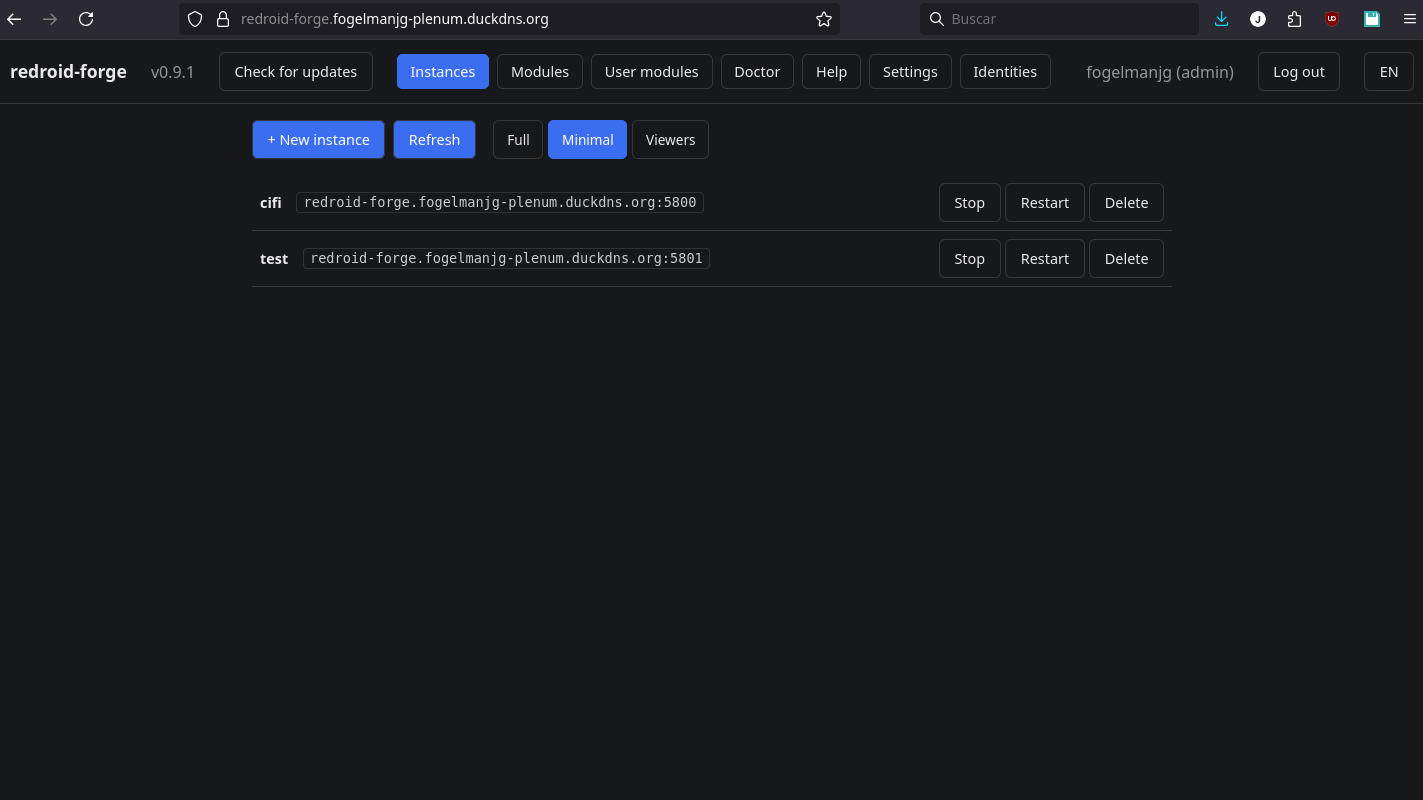
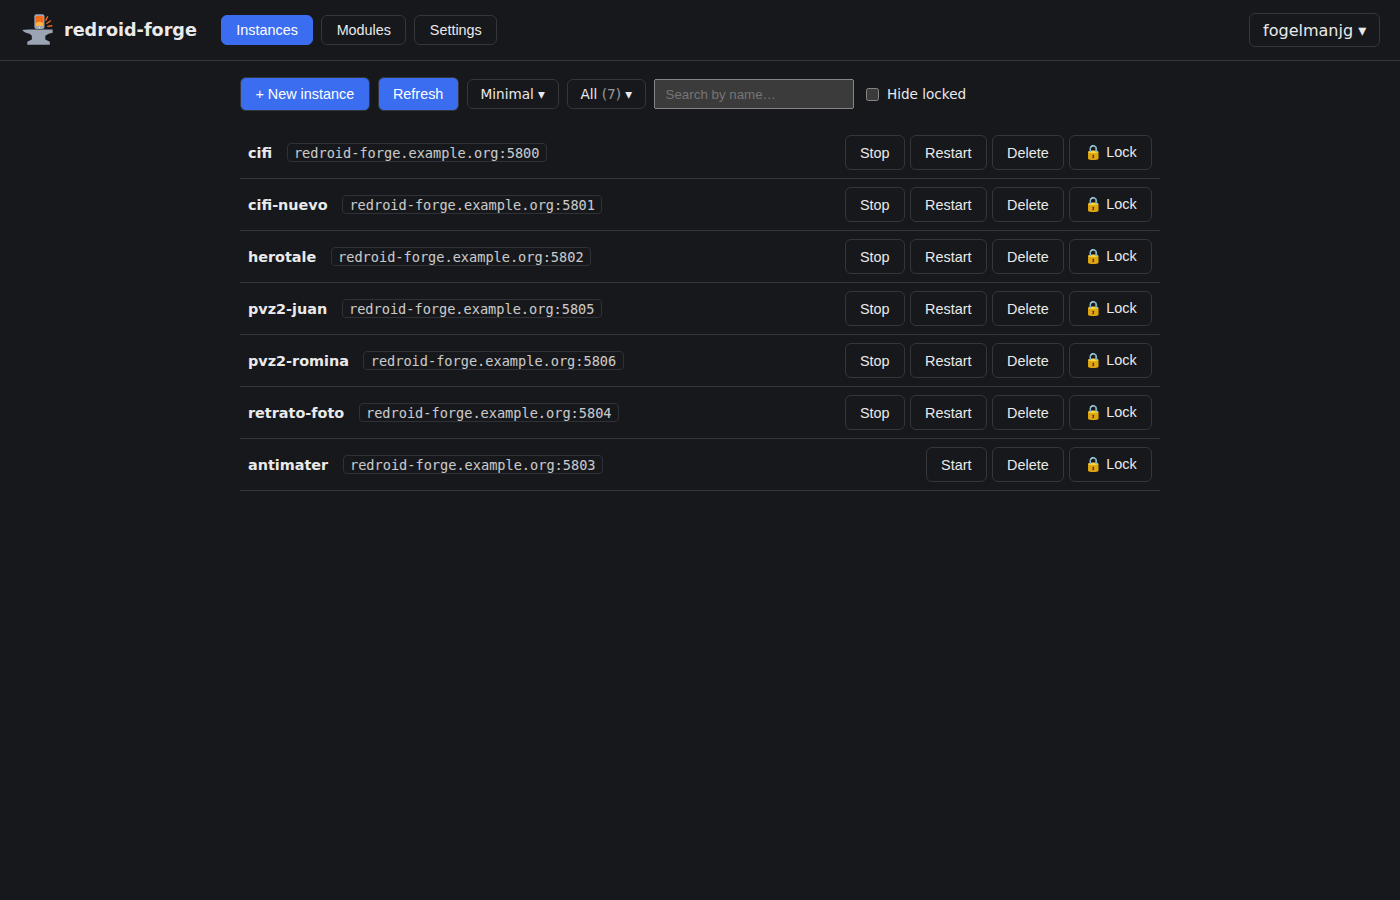
docs: retake the screenshot gallery on 1.0.0-rc.6
All 18 captures are now from rc.6, replacing the ones from 0.9.1. They
are in dark mode, with the domain, IP addresses, Android IDs and e-mails
masked.

New: Resources (live CPU and RAM), Local scrcpy, and a "What each role
sees" section with the operator's and viewer's instances, the viewer's
Doctor and My account.

diff --git a/docs/SCREENSHOTS.es.md b/docs/SCREENSHOTS.es.md
@@ -2,9 +2,9 @@
 
 **Idiomas:** [English](SCREENSHOTS.md) | Español
 
-Algunos datos de la interfaz están borroneados en estas imágenes (parte de una dirección IP o de un
-ID de cuenta, dejando visible lo justo para saber qué es) — son datos de esta máquina, no algo que
-haga la app.
+Tomadas en 1.0.0-rc.6 (28/11/2026). Algunos datos de esta máquina están enmascarados en las
+imágenes: el dominio dice `example.org`, las direcciones IP y los Android ID muestran solo su última
+parte (`x.x.x.50`, `••••9064`) y los correos solo su primera letra. La app en sí no hace esto.
 
 El encabezado tiene tres grupos — **Instancias**, **Módulos** y **Configuración** — con las pestañas
 del grupo abierto en una fila debajo, y un menú a la derecha con el usuario, la versión y el chequeo
@@ -57,10 +57,19 @@ interfaces escucha la app en sí (eso está en Configuración → General, más 
 
 <img src="screenshots/configure-instance.png" width="800" alt="Configurar instancia — exposición de red">
 
+## Recursos (CPU y RAM, en vivo)
+
+Qué núcleos del host puede usar una instancia y su límite de RAM (⚙ → Recursos), aplicado a la
+instancia en marcha sin reiniciarla. El panel avisa cuando un núcleo se comparte con otras
+instancias. La RAM se puede subir en vivo; bajarla reinicia la instancia.
+
+<img src="screenshots/resources.png" width="800" alt="Recursos — núcleos de CPU y límite de RAM">
+
 ## Port-knocking (acceso abierto)
 
 Una ventana de acceso con tiempo y IP limitados al puerto ADB de una instancia — se abre desde una
-sesión ya logueada, nunca desde el dispositivo que se conecta.
+sesión ya logueada, nunca desde el dispositivo que se conecta. Aparece solo en una instancia que
+exige knock (⚙ → Configurar → Port-knocking).
 
 <img src="screenshots/open-access.png" width="800" alt="Acceso abierto — panel de port-knocking">
 
@@ -95,13 +104,19 @@ y cuotas opcionales. Solo admin.
 Se prueba el lanzador local una vez en este navegador y después se activa o desactiva el botón 📲
 (ver [`HOWTO.es.md`](HOWTO.es.md#abrir-una-instancia-en-scrcpy-en-tu-computadora)).
 
+<img src="screenshots/local-scrcpy.png" width="800" alt="scrcpy local">
+
 ### Doctor
 
 Diagnóstico del host, el peor estado primero (rojo, después amarillo, después verde) — cada chequeo
 trae el comando exacto para arreglarlo, nunca ejecuta nada solo. Un usuario que no es admin ve solo
 los chequeos de sus propias instancias.
 
-<img src="screenshots/doctor.png" width="800" alt="Doctor">
+<img src="screenshots/doctor.png" width="800" alt="Doctor, admin">
+
+La misma pestaña para un viewer, limitada a sus propias instancias:
+
+<img src="screenshots/viewer-doctor.png" width="800" alt="Doctor, viewer">
 
 ### Identidades / Mi cuenta
 
@@ -111,3 +126,20 @@ separado. Cualquier otro usuario ve **Mi cuenta** en su lugar, para vincular o d
 login SSO.
 
 <img src="screenshots/identities.png" width="800" alt="Identidades">
+<img src="screenshots/viewer-my-account.png" width="800" alt="Mi cuenta">
+
+## Qué ve cada rol
+
+Hay tres roles. Un **admin** ve y maneja todas las instancias y toda la configuración (las imágenes
+de arriba). Los otros dos roles ven solo las instancias de las que son dueños: una instancia puede
+tener varios dueños (⚙ → Dueños).
+
+**Operador:** puede crear instancias dentro de su cuota y, en sus propias instancias, hacer todo,
+incluso configurarlas y borrarlas.
+
+<img src="screenshots/operator-instances.png" width="800" alt="Instancias vistas por un operador">
+
+**Viewer:** solo puede ver, arrancar, detener y reiniciar sus propias instancias. No tiene "Nueva
+instancia", y el grupo Configuración muestra solo scrcpy local, Doctor y Mi cuenta.
+
+<img src="screenshots/viewer-instances.png" width="800" alt="Instancias vistas por un viewer">

diff --git a/docs/SCREENSHOTS.md b/docs/SCREENSHOTS.md
@@ -2,9 +2,10 @@
 
 **Languages:** English | [Español](SCREENSHOTS.es.md)
 
-A few UI details are blurred/redacted in these images (part of an IP address or an account ID,
-keeping just enough of it visible to tell what it is) — that's this machine's own data, not
-something the app does.
+Taken on 1.0.0-rc.6 (28/11/2026). Some of this machine's own data is masked in these images:
+the domain reads `example.org`, IP addresses and Android IDs keep only their last part
+(`x.x.x.50`, `••••9064`), and e-mail addresses keep only their first letter. The app itself does
+not do this.
 
 The header has three groups — **Instances**, **Modules** and **Settings** — with the open group's
 tabs in a row below, and a menu on the right with the user, the version and update check, Help, the
@@ -54,10 +55,19 @@ interfaces the app itself listens on (that's in Settings → General, below).
 
 <img src="screenshots/configure-instance.png" width="800" alt="Configure instance — network exposure">
 
+## Resources (CPU and RAM, live)
+
+Which host cores an instance may use and its RAM limit (⚙ → Resources), applied to the running
+instance without a restart. The panel warns when a core is shared with other instances. RAM can be
+raised live; lowering it restarts the instance.
+
+<img src="screenshots/resources.png" width="800" alt="Resources — CPU cores and RAM limit">
+
 ## Port-knocking (open access)
 
 A time-limited, IP-scoped access window for an instance's ADB port — opened from an already
-logged-in session, never by the connecting device itself.
+logged-in session, never by the connecting device itself. It shows only on an instance that requires
+a knock (⚙ → Configure → Port-knocking).
 
 <img src="screenshots/open-access.png" width="800" alt="Open access — port-knocking panel">
 
@@ -90,13 +100,19 @@ shared hardware encoder backend, the ADB port range, and optional quotas. Admin 
 Test the local launcher once in this browser, then turn the 📲 button on or off (see
 [`HOWTO.md`](HOWTO.md#open-an-instance-in-scrcpy-on-your-computer)).
 
+<img src="screenshots/local-scrcpy.png" width="800" alt="Local scrcpy">
+
 ### Doctor
 
 Host diagnostics, worst status first (red, then yellow, then green) — each check comes with the
 exact command to fix it, never runs anything on its own. A non-admin user sees only the checks about
 their own instances.
 
-<img src="screenshots/doctor.png" width="800" alt="Doctor">
+<img src="screenshots/doctor.png" width="800" alt="Doctor, admin">
+
+The same tab for a viewer, limited to their own instances:
+
+<img src="screenshots/viewer-doctor.png" width="800" alt="Doctor, viewer">
 
 ### Identities / My account
 
@@ -105,3 +121,20 @@ be linked to a provider identity, and each linked identity can be managed indepe
 user sees **My account** instead, to link or unlink their own SSO login.
 
 <img src="screenshots/identities.png" width="800" alt="Identities">
+<img src="screenshots/viewer-my-account.png" width="800" alt="My account">
+
+## What each role sees
+
+There are three roles. An **admin** sees and manages every instance and every setting (the images
+above). The other two roles see only the instances they own: an instance can have several owners
+(⚙ → Owners).
+
+**Operator:** can create instances within their quota, and on their own instances do everything,
+configuration and deletion included.
+
+<img src="screenshots/operator-instances.png" width="800" alt="Instances seen by an operator">
+
+**Viewer:** can only see, start, stop and restart their own instances. There is no "New instance",
+and the Settings group shows only Local scrcpy, Doctor and My account.
+
+<img src="screenshots/viewer-instances.png" width="800" alt="Instances seen by a viewer">
